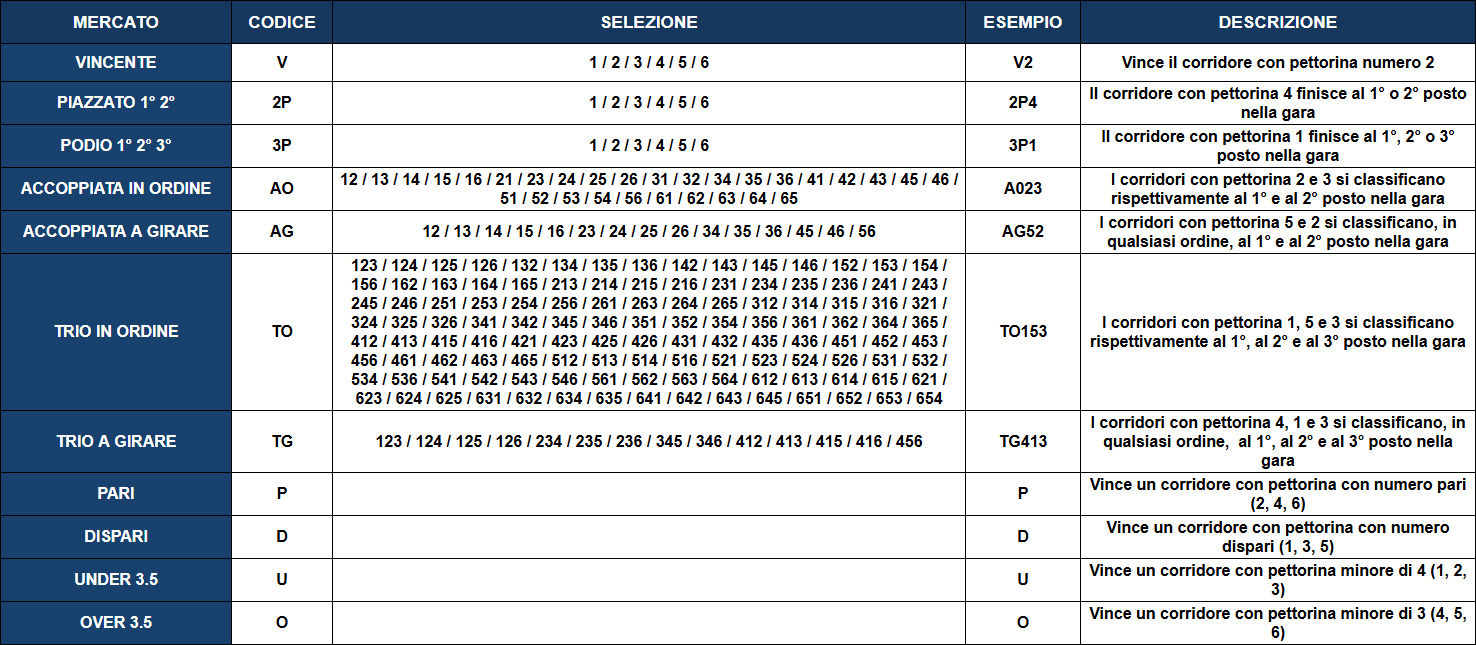
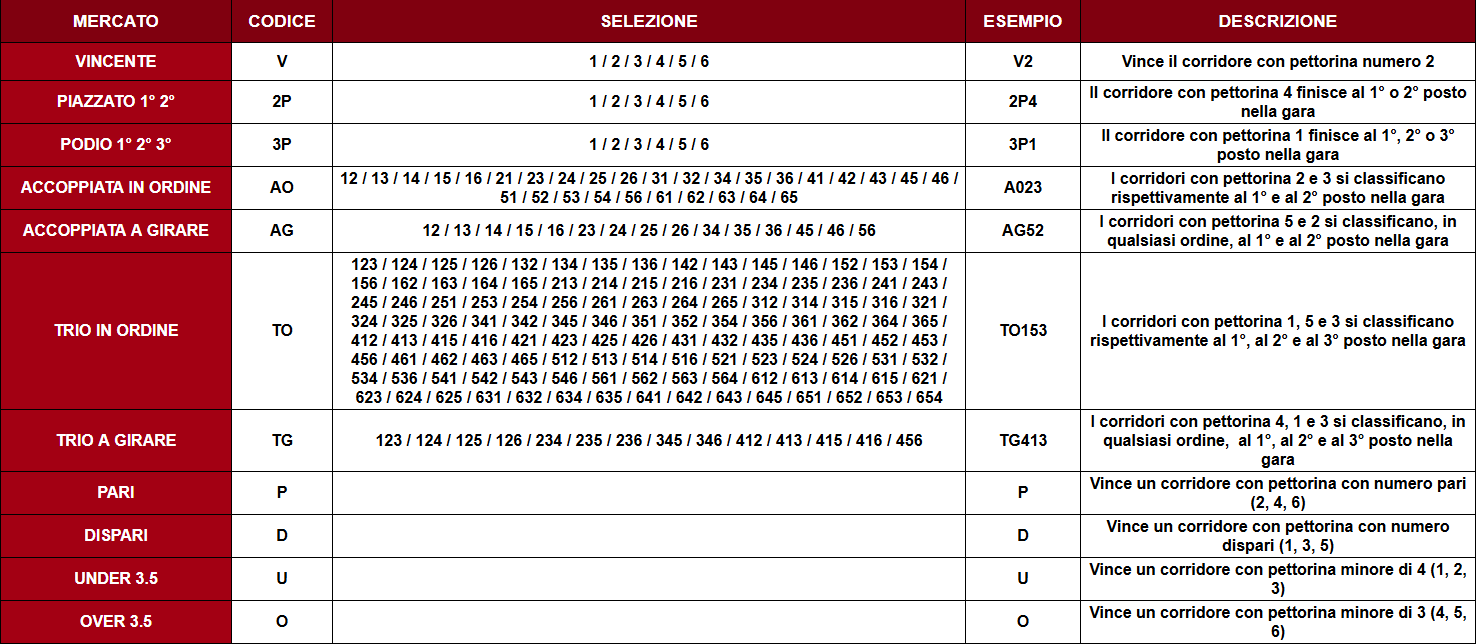
passaggio modifiche su cassa rossa italiano

diff --git a/src/retail-components/ui/carousel.tsx b/src/retail-components/ui/carousel.tsx
@@ -208,7 +208,7 @@ const CarouselPrevious = React.forwardRef<
       className={cn(
         'absolute',
         orientation === 'horizontal'
-          ? '-left-[35px] top-[51%] h-[88px] w-[35px] -translate-y-1/2 rounded-[1px] bg-[#3A7DCB] hover:bg-[#3A7DCB] disabled:!opacity-100 text-background'
+          ? '-left-[35px] top-[51%] h-[88px] w-[35px] -translate-y-1/2 rounded-[1px] bg-bet hover:bg-bet disabled:!opacity-100 text-background'
           : '-top-12 left-1/2 -translate-x-1/2 rotate-90',
         className,
       )}
@@ -240,7 +240,7 @@ const CarouselNext = React.forwardRef<
       className={cn(
         'absolute flex items-center justify-center',
         orientation === 'horizontal'
-          ? '-right-[35px] top-[51%]  h-[88px] w-[35px] -translate-y-1/2 rounded-[1px] bg-[#3A7DCB] hover:bg-[#3A7DCB] disabled:!opacity-100 text-background'
+          ? '-right-[35px] top-[51%]  h-[88px] w-[35px] -translate-y-1/2 rounded-[1px] bg-bet hover:bg-bet disabled:!opacity-100 text-background'
           : '-bottom-12 left-1/2 -translate-x-1/2 rotate-90',
         className,
       )}

diff --git a/src/retail-components/event-bets.tsx b/src/retail-components/event-bets.tsx
@@ -105,13 +105,13 @@ export default function EventBets(props: {
           ) : (
             <div className="relative bottom-[1px] ml-[3px] flex items-center justify-between pb-[4px]">
               <span className="text-[13px] uppercase">
-                {eventBets[0].bet.track || t('track_6')}
+                {eventBets[0].bet.track || t("track_6")}
               </span>
               <span className='text-[10px]'>
                 |
               </span>
 
-              <span className="relative mr-[255px] text-[13px] font-bold text-accent">
+              <span className="relative mr-[228px] text-[13px] font-bold text-accent">
                 ID {eventBets[0].bet.event.number}{' '}
                 {/* In case you want to translate ID in all the languages, don't forget to translate with i18n and add all in the jsons */}
               </span>

diff --git a/src/app/globals.css b/src/app/globals.css
@@ -279,22 +279,22 @@
 
     --card: 0 0% 100%;
     --card-foreground: 0 0% 0%;
-    --card-header: 212 63% 23%;
+    --card-header: 353, 100%, 25%;
     --card-header-foreground: 0 0% 100%;
 
     --primary: 0 0% 0%;
     --primary-foreground: 0 0% 100%;
 
-    --secondary: 211 64% 26%;
+    --secondary: 353, 100%, 32%;
     --secondary-foreground: 0 0% 90%;
 
-    --tertiary: 212 58% 51%;
+    --tertiary: 353, 100%, 36%;
     --tertiary-foreground: 0 0% 100%;
 
-    --muted: 0 0% 74%;
+    --muted: 353, 100%, 25%;
     --muted-foreground: 220 12% 95%;
 
-    --accent: 212 62% 23%;
+    --accent: 353, 100%, 25%;
     --accent-foreground: 0 0% 100%;
 
     --destructive: 0 62% 30%;
@@ -346,7 +346,7 @@
 
     --footer-betslip: 353 100% 44%;
     --footer-betslip-foreground: 0 0% 100%;
-  }
+  } 
 }
 
 @layer base {

diff --git a/src/retail-components/upcoming-events-carousel.tsx b/src/retail-components/upcoming-events-carousel.tsx
@@ -190,7 +190,7 @@ function UpcomingEventItem(props: {
       className={`relative flex h-[88px] basis-1/6 cursor-pointer flex-row items-center justify-center gap-3 overflow-hidden border-l-8 border-l-background px-2 py-2 text-[15px] last:border-r-background ${
         event.id === props.selectedEvent?.id &&
         event.discipline === props.selectedEvent?.discipline
-          ? 'bg-[hsl(211deg_65%_37%_/_.9)] text-tertiary-foreground'
+          ? 'bg-bet text-tertiary-foreground'
           : 'bg-secondary text-secondary-foreground'
       }`}
       onClick={() => {

diff --git a/src/retail-components/betting-slip.tsx b/src/retail-components/betting-slip.tsx
@@ -1335,7 +1335,7 @@ export default function BettingSlip({
             {/* IMPORTO section */}
             <div className="relative top-[17px] flex flex-row items-center justify-between px-4 py-[18px]">
               <div className="flex items-center gap-2">
-                <span className="pt-[1px] text-[16px] font-semibold">
+                <span className="pt-[1px] text-[15px] font-semibold">
                   {t('amount').toUpperCase()}
                 </span>
               </div>

diff --git a/src/retail-components/draggable-code-list.tsx b/src/retail-components/draggable-code-list.tsx
@@ -323,7 +323,7 @@ export default function DraggableCodeList({
           }}
         >
           <div
-            className="flex h-14 shrink-0 cursor-move select-none items-center justify-center  border-black bg-accent"
+            className="flex h-14 shrink-0 cursor-move select-none items-center justify-center  border-black bg-accent border-b-1"
             onMouseDown={handleMouseDown}
             onTouchStart={handleTouchStart}
           >
